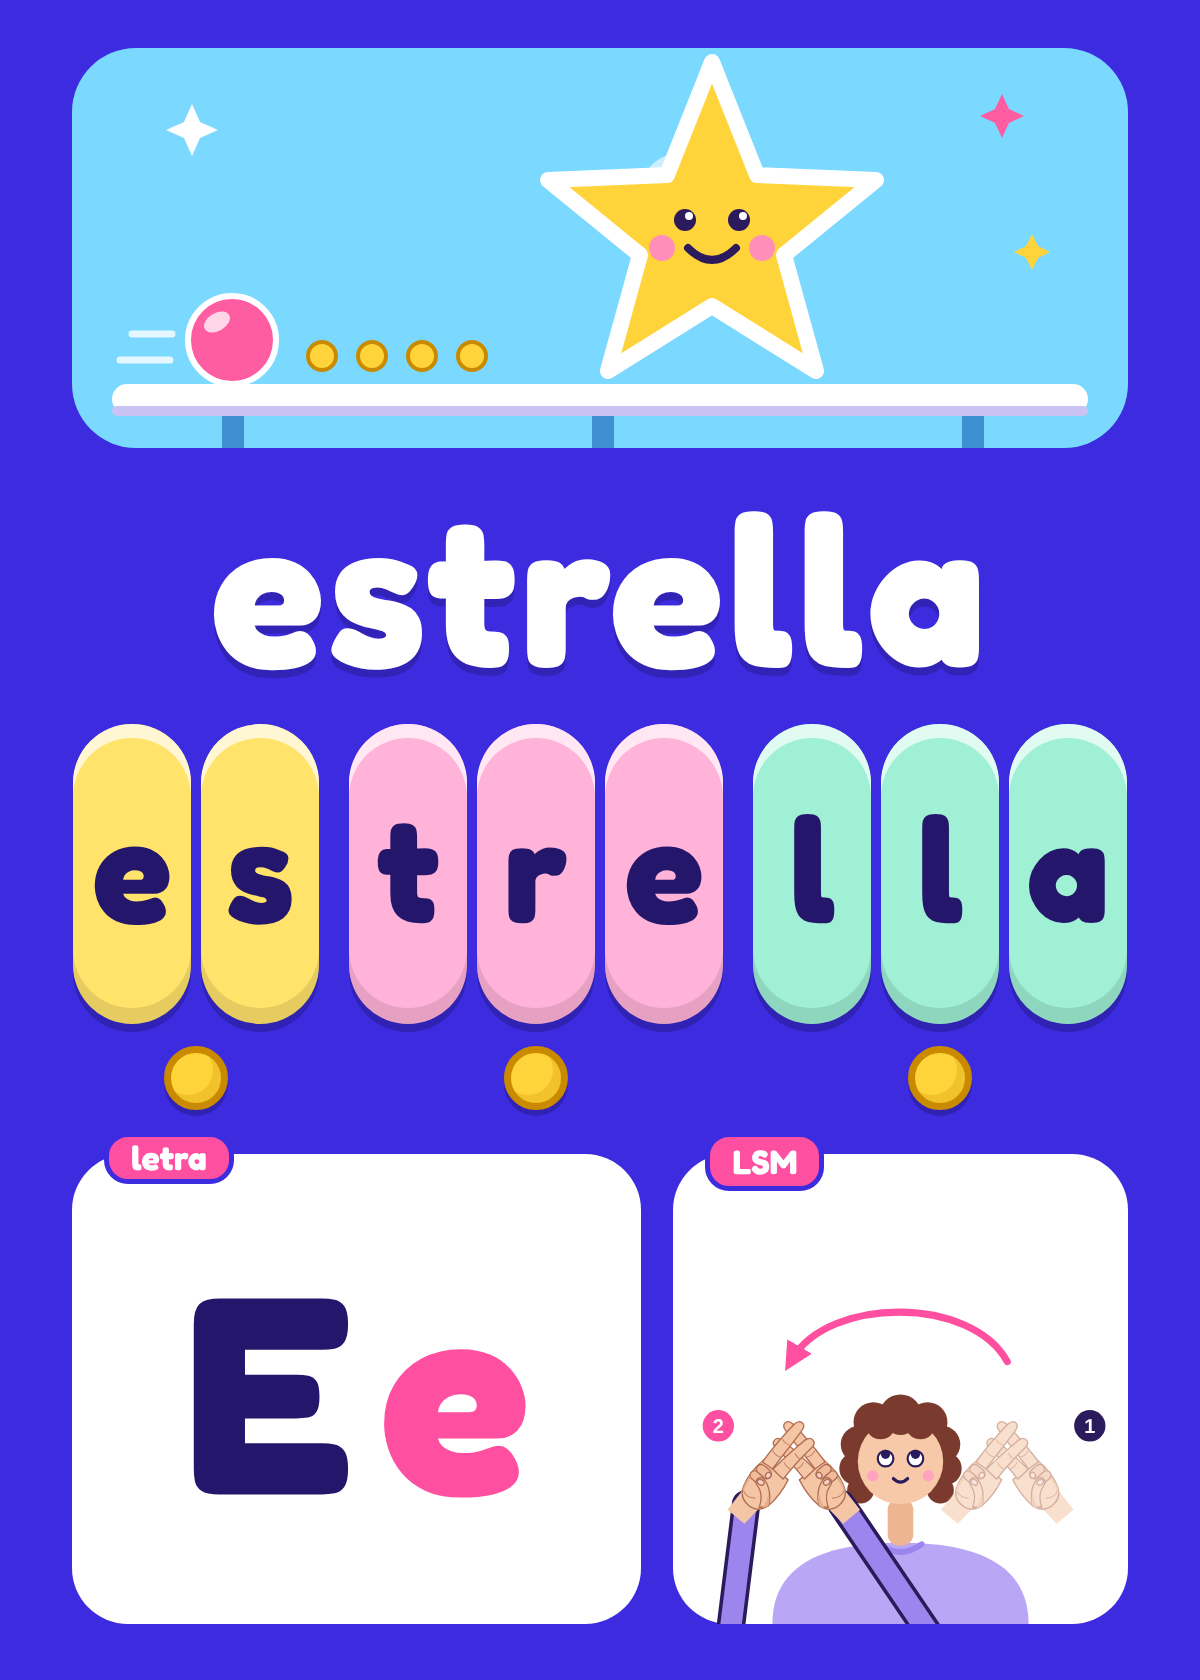
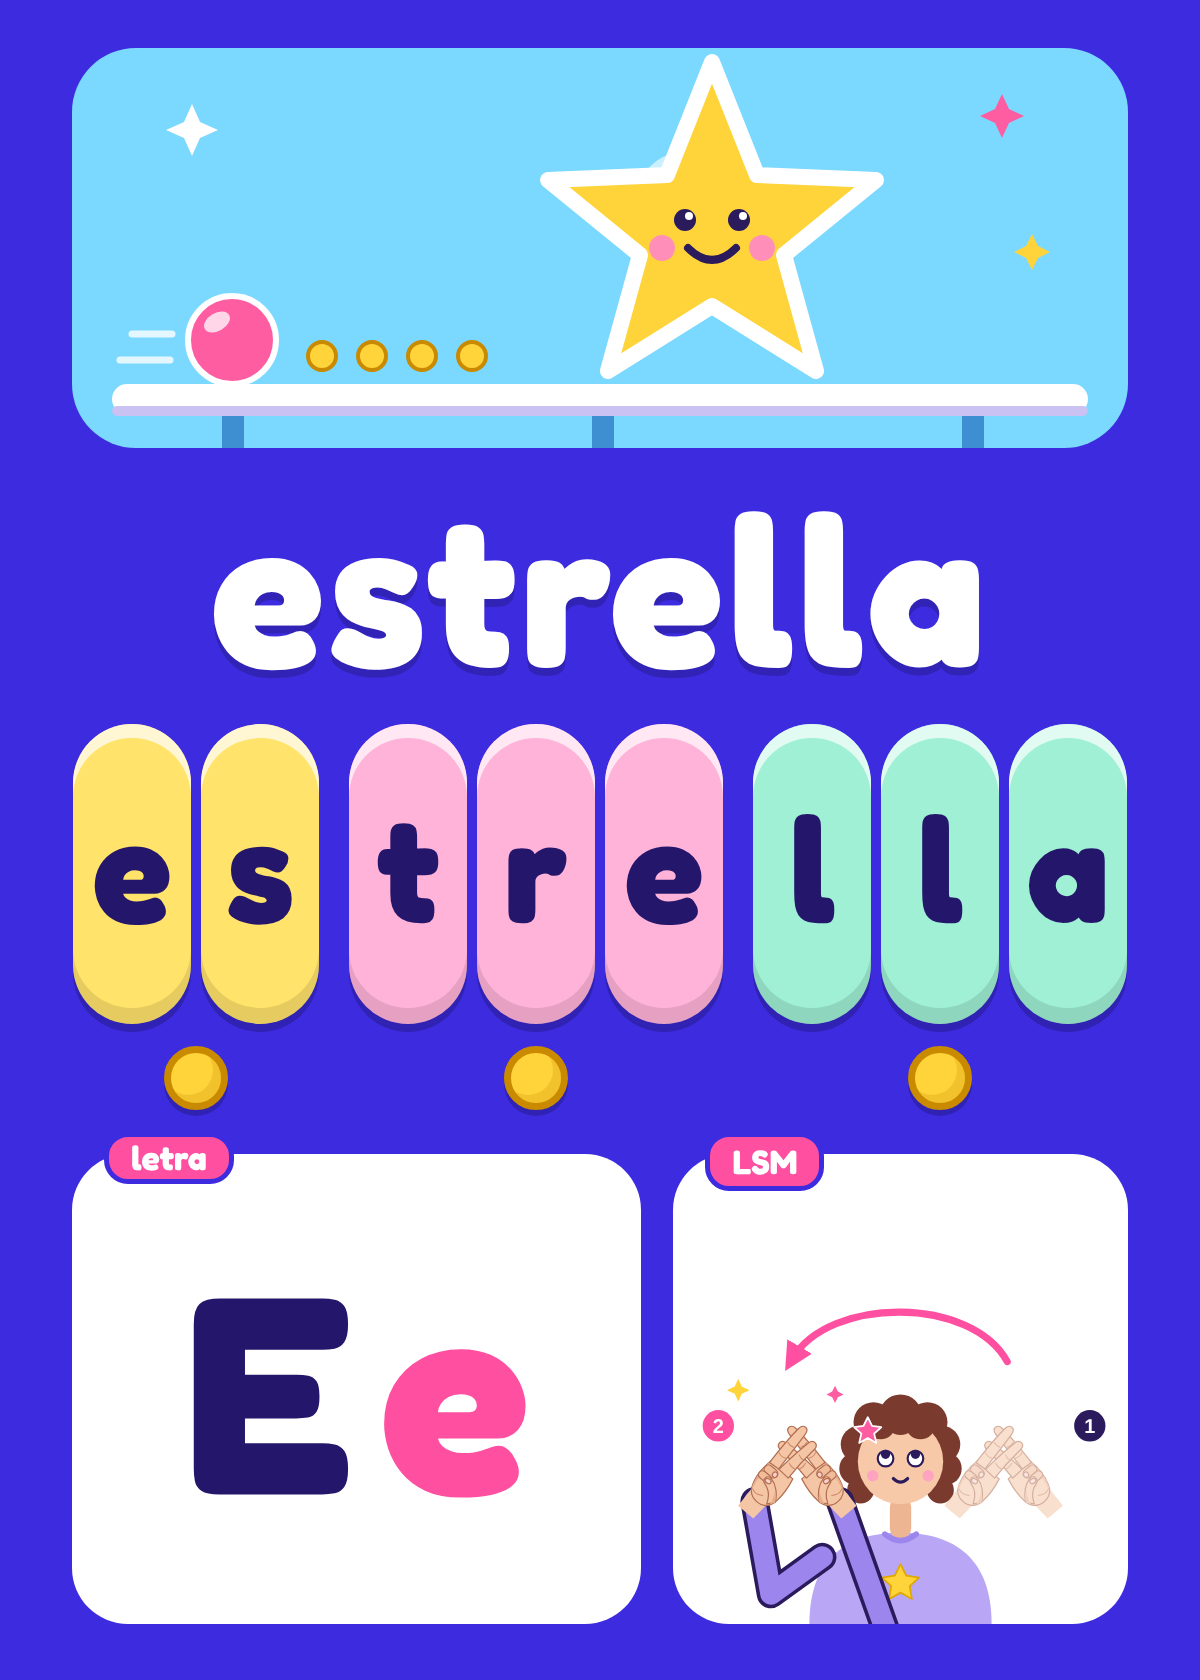
Seña estrella: cuerpo más proporcionado y detalles tiernos
Claude-Session: https://claude.ai/code/session_015Bpbc8EAm3Wz5jihEE32WP

diff --git a/CLAUDE.md b/CLAUDE.md
@@ -45,7 +45,7 @@ Este repositorio guarda tarjetas para que Valeria aprenda el **código escrito**
 6. **Fichas por sílaba**, tipo squishy: redondas, con brillo arriba y sombra abajo. Cada sílaba tiene su color y hay más espacio entre sílabas. **Debajo de cada sílaba va una moneda**: se toca o se aplaude una vez por sílaba al pronunciarla, como si se juntaran monedas en sus juegos. Separa las sílabas correctamente en español.
 7. **Panel "letra"**: la letra inicial en mayúscula y en minúscula, grande, para que reconozca la letra.
 8. **Panel "LSM"**: pequeño, abajo a la derecha. **No inventes la forma de una seña**: dibújala solo a partir de las fotos o dibujos que mande el usuario (normalmente una foto por movimiento). Si no hay referencia, deja `"sena"` fuera del JSON y aparece "seña pendiente".
-   - Dibújala en SVG como `senas/<palabra>.svg` (viewBox 600 × 540), con el estilo de `senas/estrella.svg`: persona tierna con cabello rizado, ropa lila, cara sonriente y manos realistas (proporciones de mano real, contorno fino café, sombras suaves, pliegues de los dedos y uñas; ver `#mano` en `senas/estrella.svg`).
+   - Dibújala en SVG como `senas/<palabra>.svg` (viewBox 600 × 540), con el estilo de `senas/estrella.svg`: persona tierna con proporciones reales (hombros de unas 2 cabezas de ancho, manos del tamaño de la cara), cabello rizado, ropa lila, detalles que le llamen la atención (estrellitas, broche, destellos), cara sonriente y manos realistas (proporciones de mano real, contorno fino café, sombras suaves, pliegues de los dedos y uñas; ver `#mano` en `senas/estrella.svg`).
    - Si la seña tiene varios movimientos, usa una sola figura: la posición inicial con manos **punteadas** y el número **1**, la final con manos **sólidas** y el número **2**, y una **flecha rosa** con el recorrido. La mirada y la expresión van como en la foto (en "estrella" mira hacia arriba). Si el recorrido pasa por varios puntos, numera cada posición (1, 2, 3); solo la final va sólida y con brazos.
    - Cuida la configuración: qué dedos van extendidos o doblados, dónde va el pulgar, la altura de las manos (barbilla, frente, arriba de la cabeza) y si las manos se cruzan o se tocan. Muestra el dibujo al usuario y pregúntale si la configuración es correcta, porque él conoce LSM.
 9. **Nada de personajes con derechos de autor** (Pepa Pig, Roblox, logos de TikTok, etc.). Usa solo su *estilo*: personajes redondos y simpáticos, colores alegres, bloques o elementos de juego.
